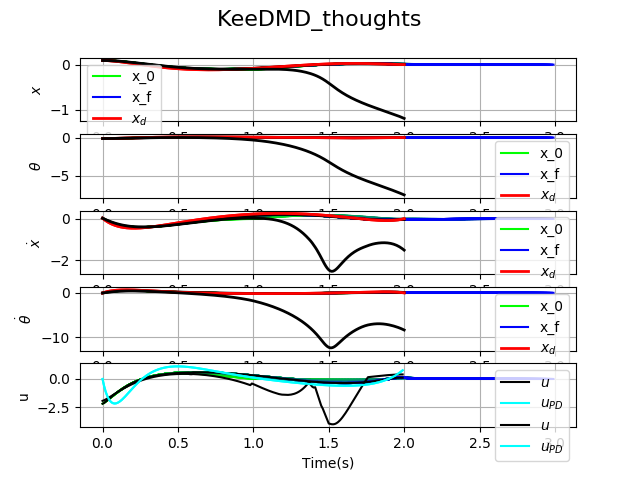
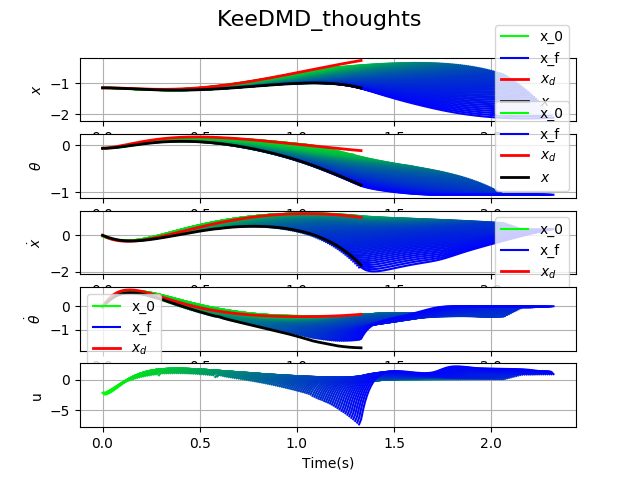
kind of working dense mpc with lifting

diff --git a/core/controllers/mpc_controller_dense.py b/core/controllers/mpc_controller_dense.py
@@ -98,18 +98,7 @@ class MPCControllerDense(Controller):
         self.N = N
         x0 = np.zeros(nx)
         self.run_time = np.zeros([0,])
-
-        #* Plot Ad and Bd
-        """ plt.figure()
-        plt.subplot(1,2,1,xlabel="Ns", ylabel="Ns")
-        plt.imshow(Ad.toarray(),  interpolation='nearest', cmap=cm.Greys_r)
-        plt.title("Ad in $x_{k+1}=Adx_k+Bu_k$")
-        plt.subplot(1,2,2,xlabel="Nu", ylabel="Ns")
-        plt.imshow(Bd.toarray(),  interpolation='nearest', cmap=cm.Greys_r)
-        plt.title("Bdd in $x_{k+1}=Adx_k+Bdu_k$")
-        plt.show() """
-
-                
+               
 
         Rbd = sparse.kron(sparse.eye(N), R)
         Qbd = sparse.kron(sparse.eye(N), Q)
@@ -141,15 +130,9 @@ class MPCControllerDense(Controller):
             Ak = Ak.dot(Ad)
             a = sparse.vstack([a,Ak])    
 
-            #* Plot Ad and Bd
-            """             plt.figure()
-            plt.subplot(1,1,1)
-            plt.imshow(Ak.toarray(),  interpolation='nearest', cmap=cm.Greys_r)
-            plt.show() """
-
         
         self.a = a
-
+        self.B = B
 
         check_ab = False
         if check_ab:
@@ -197,77 +180,74 @@ class MPCControllerDense(Controller):
             self.C = edmd_object.C
             self.edmd_object = edmd_object
 
-            # - quadratic objective
-            CQC  = sparse.csc_matrix(np.transpose(self.C).dot(Q.dot(self.C)))
+            # Compute Block Diagonal elements
+            self.Cbd = sparse.kron(sparse.eye(N), self.C)
+            CQCbd  = self.Cbd.T @ Qbd @ self.Cbd
+            self.CtQ = self.C.T @ Q
+            Cbd = self.Cbd
+            
+            P = Rbd + B.T @ CQCbd @ B            
+            self.BTQbda =  B.T @ CQCbd @ a            
+            Aineq_x = Cbd @ B
 
-            # - linear objective
-            QCT = np.transpose(Q.dot(edmd_object.C))
-            QNCT = np.transpose(QN.dot(edmd_object.C))
+            xrQB  = B.T @ np.reshape(self.CtQ.dot(xr),(N*nx,),order='F')
+            l = np.hstack([np.kron(np.ones(N), xmin)- Cbd @ a @ x0, np.kron(np.ones(N), umin)])
+            u = np.hstack([np.kron(np.ones(N), xmax)- Cbd @ a @ x0, np.kron(np.ones(N), umax)])
 
         else:
             # - quadratic objective
             P = Rbd + B.T @ Qbd @ B
+            self.BTQbda =  B.T @ Qbd @ a
+            xrQB  = B.T @ np.reshape(Q.dot(xr),(N*nx,),order='F')
+            Aineq_x = B
+        
+            l = np.hstack([np.kron(np.ones(N), xmin)- a @ x0, np.kron(np.ones(N), umin)])
+            u = np.hstack([np.kron(np.ones(N), xmax)- a @ x0, np.kron(np.ones(N), umax)])
 
-
-        self.BTQbda =  B.T @ Qbd @ a
-        self.B = B
-
-
-        xrQB  = B.T @ np.reshape(Q.dot(xr),(N*nx,))
-        x0aQb = B.T @ Qbd @ a @ x0
-        #xr_N_flat = np.tile(xr,N)
-
-
+        x0aQb = self.BTQbda @ x0
         q = x0aQb - xrQB 
-
-        #* - input and state constraints
-        Aineq_x = B
         Aineq_u = sparse.eye(N*nu)
-        l = np.hstack([np.kron(np.ones(N), xmin)-a @ x0, np.kron(np.ones(N), umin)])
-        u = np.hstack([np.kron(np.ones(N), xmax)-a @ x0, np.kron(np.ones(N), umax)])
-        # - OSQP constraints
         A = sparse.vstack([Aineq_x, Aineq_u]).tocsc()
 
+        plot_matrices = False
+        if plot_matrices:
+            #! Visualize Matrices
+            fig = plt.figure()
 
-        #! Visualize Matrices
-        fig = plt.figure()
-
-        fig.suptitle("QP Matrices to solve MP in dense form. N={}, nx={}, nu={}".format(N,nx,nu),fontsize=20)
-        plt.subplot(2,4,1,xlabel="Ns*(N+1)", ylabel="Ns*(N+1)")
-        plt.imshow(a.toarray(),  interpolation='nearest', cmap=cm.Greys_r)
-        plt.title("a in $x=ax_0+bu$")
-        plt.subplot(2,4,2,xlabel="Ns*(N+1)", ylabel="Nu*N")
-        plt.imshow(B.toarray(),  interpolation='nearest', cmap=cm.Greys_r)
-        plt.title("b in $x=ax_0+bu$")
-        plt.subplot(2,4,3,xlabel="ns*(N+1) + ns*(N+1) + nu*N", ylabel="Ns*(N+1)+Nu*N")
-        plt.imshow(A.toarray(),  interpolation='nearest', cmap=cm.Greys_r)
-        plt.title("A total in $l\\leq Ax \\geq u$")
-        plt.subplot(2,4,4)
-        plt.imshow(P.toarray(),  interpolation='nearest', cmap=cm.Greys_r)
-        plt.title("P in $J=u^TPu+q^Tu$")
-        plt.subplot(2,4,5)
-        plt.imshow(Qbd.toarray(),  interpolation='nearest', cmap=cm.Greys_r)
-        plt.title("Qbd")
-
-
-        #! Visualize Vectors
-        plt.subplot(2,4,6)
-        plt.plot(l)
-        plt.title('l in  $l\\leq Ax \\geq u$')
-        plt.grid()
-        plt.subplot(2,4,7)
-        plt.plot(u)
-        plt.title("l in  $l\\leq Ax \\geq u$")
-        plt.grid()
-        plt.subplot(2,4,8)
-        plt.plot(q)
-        plt.title("q in $J=u^TPu+q^Tu$")
-        plt.grid()
-        plt.tight_layout()
-        plt.savefig("Sparse MPC.png",bbox_inches='tight')
-        #plt.show()
+            fig.suptitle("QP Matrices to solve MP in dense form. N={}, nx={}, nu={}".format(N,nx,nu),fontsize=20)
+            plt.subplot(2,4,1,xlabel="Ns*(N+1)", ylabel="Ns*(N+1)")
+            plt.imshow(a.toarray(),  interpolation='nearest', cmap=cm.Greys_r)
+            plt.title("a in $x=ax_0+bu$")
+            plt.subplot(2,4,2,xlabel="Ns*(N+1)", ylabel="Nu*N")
+            plt.imshow(B.toarray(),  interpolation='nearest', cmap=cm.Greys_r)
+            plt.title("b in $x=ax_0+bu$")
+            plt.subplot(2,4,3,xlabel="ns*(N+1) + ns*(N+1) + nu*N", ylabel="Ns*(N+1)+Nu*N")
+            plt.imshow(A.toarray(),  interpolation='nearest', cmap=cm.Greys_r)
+            plt.title("A total in $l\\leq Ax \\geq u$")
+            plt.subplot(2,4,4)
+            plt.imshow(P.toarray(),  interpolation='nearest', cmap=cm.Greys_r)
+            plt.title("P in $J=u^TPu+q^Tu$")
+            plt.subplot(2,4,5)
+            plt.imshow(Qbd.toarray(),  interpolation='nearest', cmap=cm.Greys_r)
+            plt.title("Qbd")
 
 
+            #! Visualize Vectors
+            plt.subplot(2,4,6)
+            plt.plot(l)
+            plt.title('l in  $l\\leq Ax \\geq u$')
+            plt.grid()
+            plt.subplot(2,4,7)
+            plt.plot(u)
+            plt.title("l in  $l\\leq Ax \\geq u$")
+            plt.grid()
+            plt.subplot(2,4,8)
+            plt.plot(q)
+            plt.title("q in $J=u^TPu+q^Tu$")
+            plt.grid()
+            plt.tight_layout()
+            plt.savefig("Sparse MPC.png",bbox_inches='tight')
+            #plt.show()
 
         # Create an OSQP object
         self.prob = osqp.OSQP()
@@ -284,8 +264,6 @@ class MPCControllerDense(Controller):
             for ii in range(self.ns,self.ns+self.nu):
                 self.axs[ii].set(xlabel='Time(s)',ylabel='u')
                 self.axs[ii].grid()
-
-
 
 
     def eval(self, x, t):
@@ -309,26 +287,19 @@ class MPCControllerDense(Controller):
         # Construct the new _osqp_q objects
         if (self.lifting):
             x = np.transpose(self.edmd_object.lift(x.reshape((x.shape[0],1)),xr[:,0].reshape((xr.shape[0],1))))[:,0]
-        
-        """
-plt.figure()
-plt.subplot(2,1,1)
-plt.plot(xr[0,:])
-plt.grid()
-plt.subplot(2,1,2)
-plt.plot(np.reshape(xr,(N*nx,),order='F'),'d')
-plt.grid()
-plt.show()
+            BQxr  = self.B.T @ np.reshape(self.CtQ.dot(xr),(N*nx,),order='F')
+            l = np.hstack([np.kron(np.ones(N), self.xmin)- self.Cbd @ self.a @ x, np.kron(np.ones(N), self.umin)])
+            u = np.hstack([np.kron(np.ones(N), self.xmax)- self.Cbd @ self.a @ x, np.kron(np.ones(N), self.umax)])
 
+        else:
+            BQxr  = self.B.T @ np.reshape(self.Q.dot(xr),(N*nx,),order='F')
+            l = np.hstack([np.kron(np.ones(N), self.xmin)-            self.a @ x, np.kron(np.ones(N), self.umin)])
+            u = np.hstack([np.kron(np.ones(N), self.xmax)-            self.a @ x, np.kron(np.ones(N), self.umax)])
 
-
-        """
         # Update initial state
         BQax0 = self.BTQbda @ x
-        BQxr  = self.B.T @ np.reshape(self.Q.dot(xr),(N*nx,),order='F')
         q = BQax0  - BQxr
-        l = np.hstack([np.kron(np.ones(N), self.xmin)-self.a @ x, np.kron(np.ones(N), self.umin)])
-        u = np.hstack([np.kron(np.ones(N), self.xmax)-self.a @ x, np.kron(np.ones(N), self.umax)])
+
         self.prob.update(q=q,l=l,u=u)
 
         ## Solve MPC Instance
@@ -395,15 +366,18 @@ plt.show()
         - time_vector, 1d array [Nqd
         - filename, string
         """
+        u = u.squeeze()
+        u_pd = u_pd.squeeze()
+        
         self.fig.suptitle(filename[:-4], fontsize=16)
         for ii in range(self.ns):
             self.axs[ii].plot(time_vector, self.q_d[ii,:], linewidth=2, label='$x_d$', color=[1,0,0])
             self.axs[ii].plot(time_vector, x[ii,:], linewidth=2, label='$x$', color=[0,0,0])
             self.axs[ii].legend(fontsize=10, loc='best')
-        for ii in range(self.nu):
+        """for ii in range(self.nu):
             self.axs[ii+self.ns].plot(time_vector[:-1],u[ii,:],label='$u$',color=[0,0,0])
             self.axs[ii+self.ns].plot(time_vector[:-1],u_pd[ii,:],label='$u_{PD}$',color=[0,1,1])
-            self.axs[ii+self.ns].legend(fontsize=10, loc='best')
+            self.axs[ii+self.ns].legend(fontsize=10, loc='best') """
         self.fig.savefig(filename)
         #plt.close(self.fig)
 

diff --git a/core/examples/cart_pole_learning.py b/core/examples/cart_pole_learning.py
@@ -398,20 +398,22 @@ t0 = time.process_time()
 print('Evaluate Performance with closed loop trajectory tracking...', end =" ")
 # Set up trajectory and controller for prediction task:
 q_d_pred = q_d[4,:,:].transpose()
+q_d_pred = q_d_pred[:,:int(q_d_pred.shape[1]/1.5)]
 x_0 = q_d_pred[:,0]
 t_pred = t_d.squeeze()
+t_pred = t_pred[:int(t_pred.shape[0]/1.5)]
 noise_var_pred = 0.5
 output_pred = CartPoleTrajectory(system_true, q_d_pred,t_pred)
 
 # Set up MPC parameters
-Q = sparse.diags([200,100,50,30])
+Q = sparse.diags([500,300,50,60])
 QN = Q
 
 
 upper_bounds_MPC_control = array([30.0, pi, 10, 10])  # State constraints, check they are higher than upper_bounds
 lower_bounds_MPC_control = -upper_bounds_MPC_control  # State constraints
 umax_control = 20  # check it is higher than the control to generate the trajectories
-MPC_horizon = 0.5 # [s]
+MPC_horizon = 1.0 # [s]
 plotMPC = True
 
 # Linearized with PD
@@ -422,8 +424,8 @@ us_lin_PD = us_lin_PD.transpose()
 
 
 #* eDMD 
-""" edmd_sys = LinearSystemDynamics(A=edmd_model.A, B=edmd_model.B)
-edmd_controller = MPCController(linear_dynamics=edmd_sys, 
+edmd_sys = LinearSystemDynamics(A=edmd_model.A, B=edmd_model.B)
+edmd_controller = MPCControllerDense(linear_dynamics=edmd_sys, 
                                 N=int(MPC_horizon/dt),
                                 dt=dt, 
                                 umin=array([-umax_control]), 
@@ -443,7 +445,7 @@ xs_edmd_MPC = xs_edmd_MPC.transpose()
 us_emdm_MPC = us_emdm_MPC.transpose()
     
 if plotMPC:
-    linearlize_mpc_controller.finish_plot(xs_edmd_MPC, us_emdm_MPC, us_lin_PD, t_pred,"eDMD_thoughts.png")  """
+    edmd_controller.finish_plot(xs_edmd_MPC, us_emdm_MPC, us_lin_PD, t_pred,"eDMD_thoughts.png") 
 
 # Linearized with MPC
 linearlize_mpc_controller = MPCControllerDense(linear_dynamics=nominal_sys, 
@@ -471,7 +473,7 @@ hist(linearlize_mpc_controller.run_time*1000)
 title('MPC Run Time Histogram sparse. Mean {:.2f}ms'.format(np.mean(linearlize_mpc_controller.run_time*1000)))
 xlabel('Time(ms)')
 savefig('MPC Run Time Histogram dense.png')
-show()
+#show()
 
 #* Linearized with PD
 output_pred = CartPoleTrajectory(system_true, q_d_pred,t_pred)
@@ -480,8 +482,8 @@ xs_lin_PD, us_lin_PD = system_true.simulate(x_0, linearlize_PD_controller, t_pre
 xs_lin_PD = xs_lin_PD.transpose()
 
 
-""" keedmd_sys = LinearSystemDynamics(A=keedmd_model.A, B=keedmd_model.B)
-keedmd_controller = MPCController(linear_dynamics=keedmd_sys, 
+keedmd_sys = LinearSystemDynamics(A=keedmd_model.A, B=keedmd_model.B)
+keedmd_controller = MPCControllerDense(linear_dynamics=keedmd_sys, 
                                 N=int(MPC_horizon/dt),
                                 dt=dt, 
                                 umin=array([-umax_control]), 
@@ -501,7 +503,14 @@ xs_keedmd_MPC = xs_keedmd_MPC.transpose()
 us_keedmd_MPC = us_keedmd_MPC.transpose()
 
 if plotMPC:
-    linearlize_mpc_controller.finish_plot(xs_keedmd_MPC,us_keedmd_MPC, us_lin_PD, t_pred,"KeeDMD_thoughts.png") """
+    keedmd_controller.finish_plot(xs_keedmd_MPC,us_keedmd_MPC, us_lin_PD, t_pred,"KeeDMD_thoughts.png")
+
+figure()
+hist(keedmd_controller.run_time*1000)
+title('MPC Run Time Histogram sparse. Mean {:.2f}ms'.format(np.mean(keedmd_controller.run_time*1000)))
+xlabel('Time(ms)')
+savefig('MPC Run Time Histogram dense.png')
+show()
 
 
 print('in {:.2f}s'.format(time.process_time()-t0))
@@ -518,8 +527,8 @@ figure()
 for ii in range(n):
     subplot(n, 1, ii+1)
     plot(t_pred, q_d_pred[ii,:], linestyle="--",linewidth=2, label='reference')
-    #plot(t_pred, xs_edmd_MPC[ii,:], linewidth=2, label='eDMD with MPC')
-    #plot(t_pred, xs_keedmd_MPC[ii,:], linewidth=2, label='KeeDMD with MPC')
+    plot(t_pred, xs_edmd_MPC[ii,:], linewidth=2, label='eDMD with MPC')
+    plot(t_pred, xs_keedmd_MPC[ii,:], linewidth=2, label='KeeDMD with MPC')
     plot(t_pred, xs_lin_MPC[ii,:], linewidth=2, label='Linearized dynamics with MPC')
     plot(t_pred, xs_lin_PD[ii,:], linewidth=2, label='Linearized dynamics with PD Controller')
     xlabel('Time (s)')
